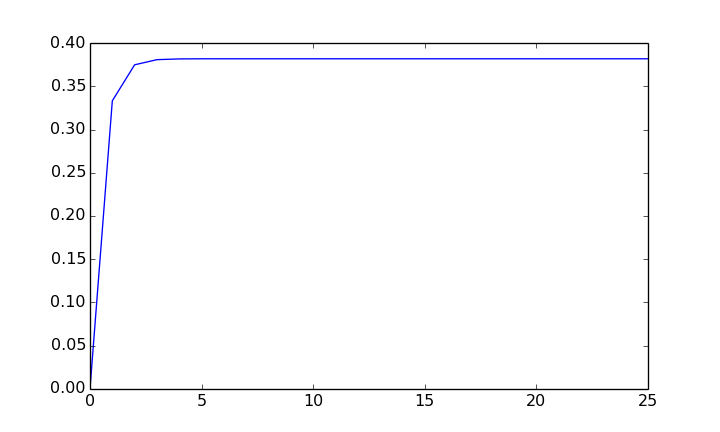
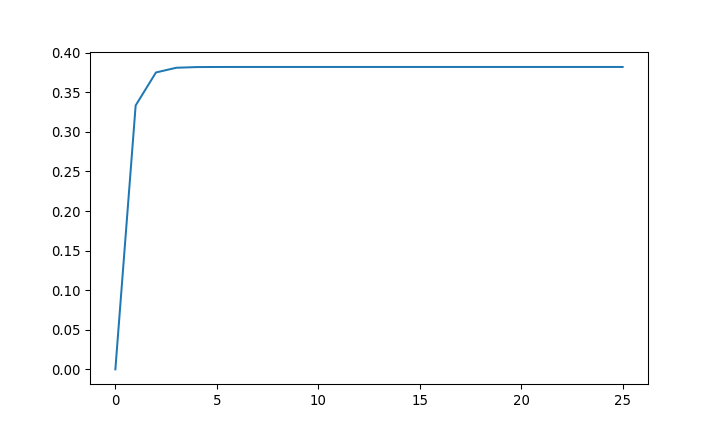
divendress

diff --git a/teoria/02Succesiones.md b/teoria/02Succesiones.md
@@ -1107,7 +1107,7 @@ dado que la otra solución de la ecuación de segundo grado resultante es mayor 
 <div class="example"> 
 Acabamos de ver que si $a_1=2$, $a_{n+1} = \frac{1}{3-a_n}$, entonces $\lim a_n = \frac{3-\sqrt{5}}{2}$. El gràfico siguiente muestra los $25$ primeros términos de esta sucesión y lo rápida que es la convergencia.
 
- <img src="02Succesiones_files/figure-html/unnamed-chunk-1-1.png" width="720" />
+ ![](02Succesiones_files/figure-html/unnamed-chunk-1-1.png)<!-- -->
 
 </div>
 
@@ -1251,6 +1251,12 @@ $$
 
 
 ## Criterio de Stolz. (Demostración)
+
+<div class="box">
+<div class="important">
+<i class="fa fa-dizzy"> Contenido muy técnico. </i>
+</div>
+</div>
 
 <div class="dem">
 
